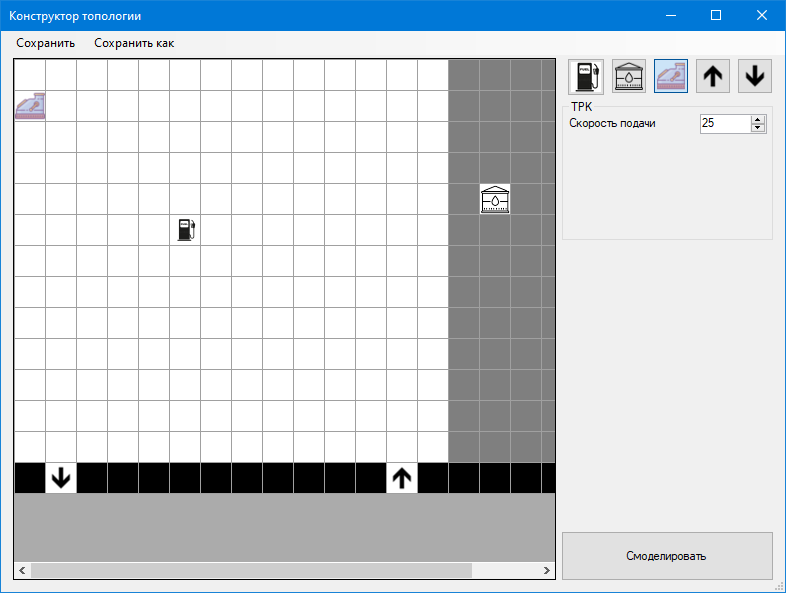
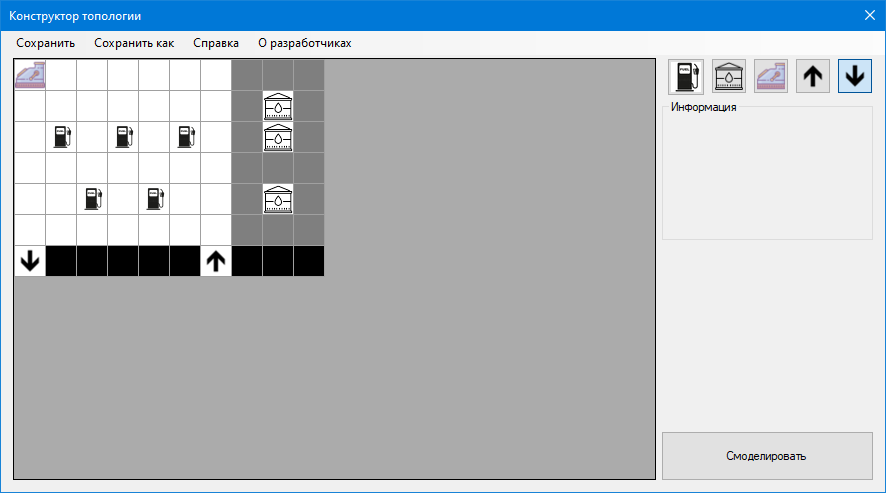
о конструкторе

diff --git a/Help/Constructor.html b/Help/Constructor.html
@@ -1,5 +1,5 @@
-<!DOCTYPE HTML PUBLIC "-//W3C//DTD HTML 4.0 Transitional//EN">
-<HTML lang="Russian">
+<!DOCTYPE HTML PUBLIC "-//W3C//DTD HTML 4.0 Transitional//EN">
+<HTML>
 
 <HEAD>
     <META CONTENT="text/html; charset=utf-8" HTTP-EQUIV="CONTENT-TYPE">
@@ -8,87 +8,165 @@
     <link rel="stylesheet" href="Styles.css">
 </HEAD>
 
-<BODY DIR="LTR" LANG="ru-RU">
+<BODY LANG="ru-RU" DIR="LTR">
 
-<h1>О КОНСТРУКТОРЕ</h1>
+    <h4>Конструктор</h4>
 
-<h2>СМ. ТАКЖЕ</h2>
-<ul>
-    <li><a href="Index.html">О программе</a></li>
-    <li><a href="Devs.html">О разработчиках</a></li>
-</ul>
+    <P>
+        После того
+        как была создана и настроена или загружена
+        из файла топология, система отобразит
+        экранную форму «Конструктор топологии»,
+        изображенную на рисунке 1, в котором
+        пользователь может выполнять различные
+        действия: размещать ШЭ, удалять ШЭ,
+        настраивать ШЭ.
+    </P>
 
-<P>
-    После того как была создана и настроена или загружена из файла топология, система отобразит окно «Конструктор
-    топологии», в котором пользователь может выполнять различные действия: размещать ШЭ, удалять ШЭ, настраивать ШЭ.
-</P>
+    <P class="pimage">
+        <IMG SRC="Images/Image1.png" NAME="Рисунок 1">
 
-<P>
-    В левом верхнем углу располагаются кнопки «Сохранить» и «Сохранить как». С помощью них пользователь может сохранить
-    топологию в файл, в котором осуществляется работа или же сохранить топологию в новый файл.
-</P>
+        <BR>Рисунок
+        1 – Экранная форма «Конструктор топологии»
+    </P>
 
-<P>
-    В правом верхнем углу расположена панель ШЭ (ТРК, ТБ, касса, въезд, выезд). Под этой панелью располагается окно, в
-    котором отображается информация о выбранном ШЭ, где пользователь может настроить параметры ШЭ.
-</P>
+    <P>
+        В левом
+        верхнем углу располагаются кнопки
+        «Сохранить», «Сохранить как», «Справка»
+        и «О разработчиках». С помощью кнопок
+        «Сохранить» и «Сохранить как» пользователь
+        может сохранить топологию в файл, в
+        котором осуществляется работа или же
+        сохранить топологию в новый файл.
+    </P>
 
-<P>
-    Большая часть экрана отображает пространство, в котором расположено сама топология и расположенные на ней ШЭ. Чтобы
-    добавить ШЭ на топологию, пользователь может выбрать ШЭ и кликая ЛКМ размещать ШЭ или пользователь может размещать
-    ШЭ с помощью функции drag-and-drop. Чтобы удалить ШЭ с топологии, пользователь должен кликнуть правой кнопкой мыши
-    (ПКМ) по ШЭ, который он хочет удалить.
-</P>
+    <P>
+        Нажав на
+        кнопки «Справка» и «О разработчика»,
+        пользователь может посмотреть информацию
+        о конструкторе и разработчиках
+        соответственно.
+    </P>
 
-<P>
-    Чтобы настроить ШЭ «ТРК», пользователь должен кликнуть ЛКМ по ТРК на топологии, после чего станет доступным параметр
-    выбранной ТРК, а именно параметр «Скорость подачи». В данном поле пользователь может указать любое число. Если
-    ведённое значение выходит за пределы допустимых значений, то присвоено будет минимальное или максимальное значение
-    соответственно. На рисунке 1 изображен пример настройки ТРК.
-</P>
+    <P>
+        В правом
+        верхнем углу расположена панель ШЭ
+        (ТРК, ТБ, касса, въезд, выезд). Под этой
+        панелью располагается окно, в котором
+        отображается информация о выбранном
+        ШЭ, где пользователь может настроить
+        параметры ШЭ.
+    </P>
 
-<P>
-    Чтобы настроить ШЭ «ТБ», пользователь должен кликнуть ЛКМ по ТБ на топологии, после чего станут доступны такие
-    параметры как «Объем» и «Объем топлива» и «Топливо».
-</P>
+    <P>
+        Большая часть
+        экрана отображает пространство, в
+        котором расположено сама топология и
+        расположенные на ней ШЭ. Чтобы добавить
+        ШЭ на топологию, пользователь должен
+        выбрать ШЭ и, кликая ЛКМ, размещать ШЭ.
+        Пользователь может размещать ШЭ с
+        помощью функции «Drag and
+        drop». Чтобы удалить ШЭ с
+        топологии, пользователь должен кликнуть
+        правой кнопкой мыши (ПКМ) по ШЭ, который
+        он хочет удалить.
+    </P>
 
-<P>
-    <IMG NAME="Рисунок 1" SRC="Images/Image1.png" HEIGHT=470 WIDTH=624 alt="Рисунок 1 – Настройка ТРК">
-    <BR>Рисунок1 – Настройка ТРК
-</P>
+    <P>
+        Чтобы настроить
+        ШЭ «ТРК», пользователь должен кликнуть
+        ЛКМ по ТРК на топологии, после чего
+        станет доступным параметр выбранной
+        ТРК, а именно параметр «Скорость подачи».
+        В данном поле пользователь может указать
+        любое число. Если ведённое значение
+        выходит за пределы допустимых значений,
+        то присвоено будет минимальное или
+        максимальное значение соответственно.
+        На рисунке 2 изображена область, в которой
+        происходит настройка ТРК.
+    </P>
 
-<P>
-    В поле «Объем» пользователь указывает размер ТБ. В поле «Объем топлива» пользователь указывать объем выбранного
-    топлива в ТБ. В поле «Топливо» пользователь указывает какой вид топлива будет находиться в выбранном ТБ. Для того
-    чтобы выбрать топливо, пользователю необходимо открыть список видов топлива, кликнув ЛКМ по стрелке в конце поля.
-    После этого откроется список доступных видом топлива, где он может выбрать нужный ему вид топлива.
-</P>
+    <P class="pimage">
+        <IMG SRC="Images/Image2.png" NAME="Рисунок 2">
 
-<P>
-    Если пользователь хочет создать новый вид топлива, то он кликает на кнопку «Добавить топливо». После нажатия на эту
-    кнопку, откроется модальное окно «Добавление топлива». В данном поле пользователю необходимо заполнить поля
-    «Название» и «Цена за литр, руб». После успешного заполнения соответствующих полей, создается новый вид топлива и
-    выбранный ТБ выбирает новое топливо в качестве параметров. На рисунках 2 и 3 изображено окно «Добавление топлива» и
-    настройка ТБ.
-</P>
+        <BR>Рисунок
+        2 – Настройка ТРК
+    </P>
 
-<P><IMG NAME="Рисунок 2" SRC="Images/Image2.png" HEIGHT=272 WIDTH=231 alt="Окно «Добавление топлива»">
-    <BR>Рисунок 2 – Окно «Добавление топлива»
-</P>
+    <P>
+        Чтобы настроить
+        ШЭ «ТБ», пользователь должен кликнуть
+        ЛКМ по ТБ на топологии, после чего станут
+        доступны такие параметры как «Объем»
+        и «Объем топлива» и «Топливо». На рисунке
+        3 изображена настройка параметров ТБ.
+    </P>
 
-<P><IMG NAME="Рисунок 3" SRC="Images/Image3.png" HEIGHT=470 WIDTH=624 alt="Рисунок 3 – Настройка ТБ">
-    <BR>Рисунок 3 – Настройка ТБ
-</P>
+    <P class="pimage">
+        <IMG SRC="Images/Image3.png" NAME="Рисунок 3">
 
-<P>
-    ШЭ «касса», «въезд» и «выезд» не имеют настраиваемых параметров.
-</P>
+        <BR>Рисунок
+        3 – Настройка ТБ
+    </P>
 
-<P>
-    При нажатии на кнопку «Смоделировать», система выполняет валидацию. Если валидация пройдет успешно, то осуществится
-    переход к окну «Настройка транспортного потока», иначе система выдаст ошибку, в которой будет написано, на каком
-    именно этапе валидация не смогла пройти успешно.
-</P>
+    <P>
+        В поле «Объем»
+        пользователь указывает размер ТБ. В
+        поле «Объем топлива» пользователь
+        указывать объем выбранного топлива в
+        ТБ. В поле «Топливо» пользователь
+        указывает какой вид топлива будет
+        находиться в выбранном ТБ. Для того
+        чтобы выбрать топливо, пользователю
+        необходимо открыть список видов топлива,
+        кликнув ЛКМ по стрелке в конце поля.
+        После этого откроется список доступных
+        видом топлива, где он может выбрать
+        нужный ему вид топлива.
+    </P>
+
+    <P>
+        Если
+        пользователь захочет создать новый вид
+        топлива, то он кликает на гиперссылку
+        «Добавить топливо». После нажатия на
+        эту кнопку, откроется модальное окно
+        «Добавление топлива». В данном поле
+        пользователю необходимо заполнить поля
+        «Название» и «Цена за литр, руб». После
+        успешного заполнения соответствующих
+        полей, создается новый вид топлива и
+        выбранный ТБ выбирает новое топливо в
+        качестве параметров. На рисунке 4
+        изображена экранная форма «Добавление
+        топлива».
+    </P>
+
+    <P class="pimage">
+        <IMG SRC="Images/Image4.png" NAME="Рисунок 4">
+
+        <BR>Рисунок
+        4 – Экранная форма «Добавление топлива»
+    </P>
+
+    <P>
+        ШЭ «касса»,
+        «въезд» и «выезд» не имеют настраиваемых
+        параметров.
+    </P>
+
+    <P>
+        При нажатии
+        на кнопку «Смоделировать» система
+        выполняет валидацию. Если валидация
+        пройдет успешно, то осуществится переход
+        к экранной форме «Настройка транспортного
+        потока», иначе система выдаст сообщение
+        об ошибке с указанием ее причины.
+    </P>
 
 </BODY>
 </HTML>

diff --git a/Help/Styles.css b/Help/Styles.css
@@ -1,18 +1,22 @@
-        @page {
-            margin: 0.79in 0.59in 0.79in 1.18in;
-        }
+@page {
+    margin-left: 1.18in;
+    margin-right: 0.59in;
+    margin-top: 0.79in;
+    margin-bottom: 0.79in
+}
 
-        P {
-            margin-bottom: 0.08in;
-            direction: ltr;
-            widows: 2;
-            orphans: 2;
+P {
+    direction: ltr;
+    widows: 2;
+    orphans: 2;
+    font-size: 14px;
+    text-align: justify;
+    text-indent: 0.49in;
+    margin-bottom: 0in;
+    line-height: 150%;
+}
 
-            text-indent: 0.49in;
-            line-height: 150%;
-            font-family: serif;
-        }
-
-        IMG {
-            BORDER: 0;
-        }
+.pimage {
+    text-align: center;
+    margin-bottom: 0.17in;
+}
